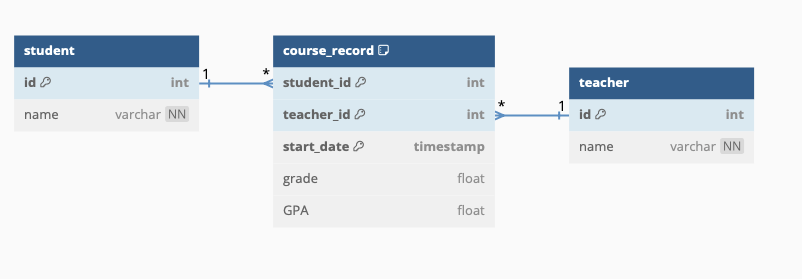
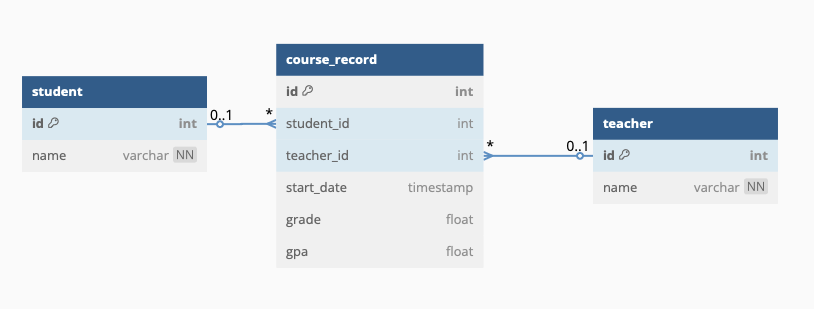
altered schema for course table and added course model

diff --git a/src/DB/course.py b/src/DB/course.py
@@ -1,0 +1,22 @@
+from DB.Base import Base
+from sqlalchemy.orm import Mapped, mapped_column
+from sqlalchemy import Integer, ForeignKey, DateTime, FLOAT
+from sqlalchemy.schema import PrimaryKeyConstraint
+from datetime import datetime
+
+
+class CourseRecord(Base):
+    __tablename__ = "course_record"
+    id: Mapped[int] = mapped_column(Integer, primary_key=True)
+    student_id: Mapped[int] = mapped_column(
+        Integer, ForeignKey("student.id"), nullable=False
+    )
+    teacher_id: Mapped[int] = mapped_column(
+        Integer, ForeignKey("teacher.id"), nullable=False
+    )
+    start_date: Mapped[datetime] = mapped_column(DateTime, nullable=False)
+    grade: Mapped[float] = mapped_column(FLOAT)
+    gpa: Mapped[float] = mapped_column(FLOAT)
+
+    def __repr__(self) -> str:
+        return f"CourseRecord(student_id={self.student_id!r}, teacher_id={self.teacher_id}, start_date={self.start_date}, grade={self.grade}, gpa={self.gpa})"

diff --git a/src/DB/__init__.py b/src/DB/__init__.py
@@ -1,2 +1,3 @@
 import DB.student
 import DB.teacher
+import DB.course
